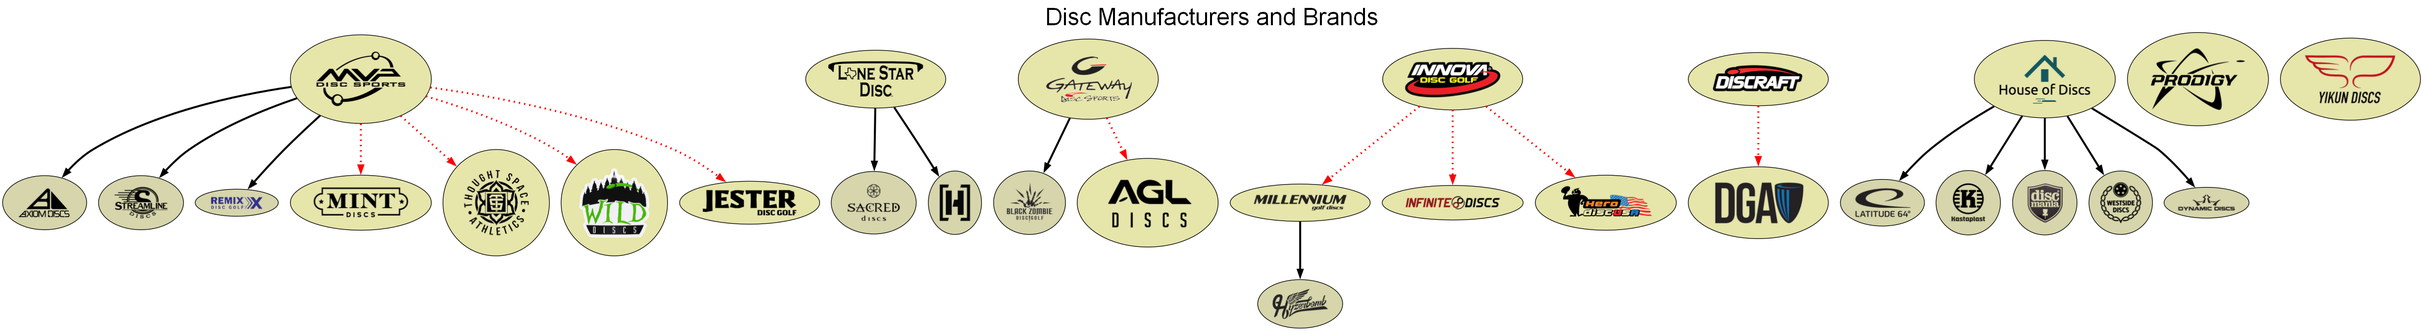
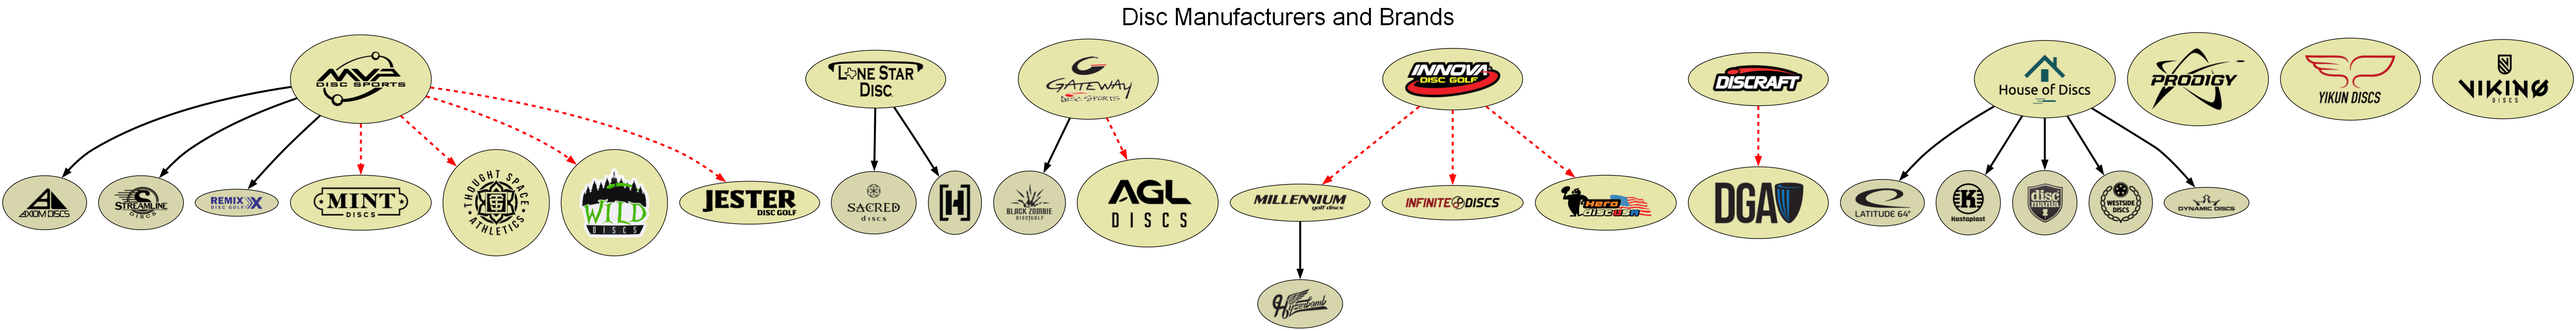
Viking

diff --git a/brands/brands.py b/brands/brands.py
@@ -42,7 +42,7 @@ def generate_brands_graph():
                     G.add_edge(brand['manufacturer'], company_name)
         
         if 'manufacturer' in company:
-            G.add_edge(company['manufacturer'], company_name, style='dotted', color='red', penwidth=3)
+            G.add_edge(company['manufacturer'], company_name, style='dashed', color='red', penwidth=3)
 
     # Set graph attributes
     G.graph_attr['label'] = 'Disc Manufacturers and Brands'
